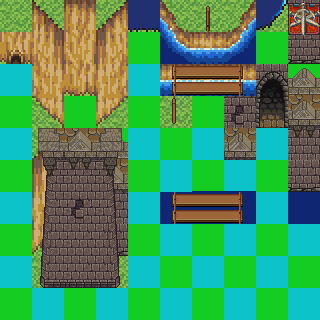
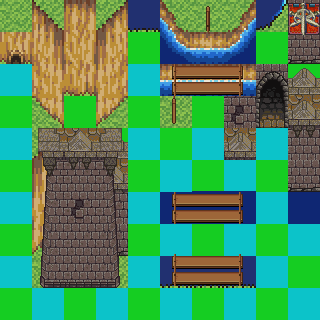
Permite cargar mapas predeterminados.

Changed region(s): [[0.5, 0.7812, 0.8125, 0.9062]]

diff --git a/src/mapa/MapaCargado.java b/src/mapa/MapaCargado.java
@@ -43,168 +43,179 @@ public class MapaCargado extends Mapa{
     protected void generarMapa() {
         for (int i = 0; i < pixeles.length; i++) {
             switch (pixeles[i]) { //evalua el color guardado en el array de pixeles
-                case 0x579641:
+                case 0xff579641:
                     cuadrosCatalogo[i] = Cuadro.TIERRA;
                     continue;
-                case 0x414b96:
+                case 0xff414b96:
                     cuadrosCatalogo[i] = Cuadro.AGUA;
                     continue;
-                case 0x9f8034:
+                case 0xff9f8034:
                     cuadrosCatalogo[i] = Cuadro.BANDERA_P1;
                     continue;
-                case 0x6d5314:
+                case 0xff6d5314:
                     cuadrosCatalogo[i] = Cuadro.BANDERA_P2;
                     continue;
-                case 0x8d6507:
+                case 0xff8d6507:
                     cuadrosCatalogo[i] = Cuadro.DETALLE_PARED1;
                     continue;
-                case 0x907d50:
+                case 0xff907d50:
                     cuadrosCatalogo[i] = Cuadro.ESPINO_INF_CON_DETALLE;
                     continue;
-                case 0xb08828:
+                case 0xffb08828:
                     cuadrosCatalogo[i] = Cuadro.ESPINO_INF_SIN_DETALLE;
                     continue;
-                case 0x615035:
+                case 0xff615035:
                     cuadrosCatalogo[i] = Cuadro.ESPINO_SUP;
                     continue;
-                case 0x6b604f:
+                case 0xff6b604f:
                     cuadrosCatalogo[i] = Cuadro.ESPINO_SUP_TORRE;
                     continue;
-                case 0x6c564d:
+                case 0xff6c564d:
                     cuadrosCatalogo[i] = Cuadro.ESPINO_SUP_TORRE_DETALLE;
                     continue;
-                case 0xa12d5e:
+                case 0xffa12d5e:
                     cuadrosCatalogo[i] = Cuadro.ESQUINA_INF_TORRE_DER;
                     continue;
-                case 0x620e31:
+                case 0xff620e31:
                     cuadrosCatalogo[i] = Cuadro.ESQUINA_INF_TORRE_IZ;
                     continue;
-                case 0x3f2424:
+                case 0xff3f2424:
                     cuadrosCatalogo[i] = Cuadro.ESQUINA_SUP_DER_TIERRA;
                     continue;
-                case 0x864040:
+                case 0xff864040:
                     cuadrosCatalogo[i] = Cuadro.ESQUINA_SUP_DER_TIERRA_INF;
                     continue;
-                case 0x462020:
+                case 0xff462020:
                     cuadrosCatalogo[i] = Cuadro.ESQUINA_SUP_DER_TIERRA_MED;
                     continue;
-                case 0x4f0f0f:
+                case 0xff4f0f0f:
                     cuadrosCatalogo[i] = Cuadro.ESQUINA_SUP_DER_TIERRA_MED2;
                     continue;
-                case 0x735845:
+                case 0xff735845:
                     cuadrosCatalogo[i] = Cuadro.ESQUINA_SUP_IZ_TIERRA;
                     continue;
-                case 0x9b7a43:
+                case 0xff9b7a43:
                     cuadrosCatalogo[i] = Cuadro.ESQUINA_SUP_IZ_TIERRA_INF;
                     continue;
-                case 0xa06d48:
+                case 0xffa06d48:
                     cuadrosCatalogo[i] = Cuadro.ESQUINA_SUP_IZ_TIERRA_MEDIO;
                     continue;
-                case 0xb4945f:
+                case 0xffb4945f:
                     cuadrosCatalogo[i] = Cuadro.ESQUINA_SUP_IZ_TIERRA_MEDIO2;
                     continue;
-                case 0x867f7f:
+                case 0xff867f7f:
                     cuadrosCatalogo[i] = Cuadro.ESQUINA_SUP_TORRE_DER;
                     continue;
-                case 0x807870:
+                case 0xff807870:
                     cuadrosCatalogo[i] = Cuadro.ESQUINA_SUP_TORRE_DER_MEDIO;
                     continue;
-                case 0x887a6c:
+                case 0xff887a6c:
                     cuadrosCatalogo[i] = Cuadro.ESQUINA_SUP_TORRE_DER_MEDIO2;
                     continue;
-                case 0x796551:
+                case 0xff796551:
                     cuadrosCatalogo[i] = Cuadro.ESQUINA_SUP_TORRE_DER_MEDIO3;
                     continue;
-                case 0x866c2e:
+                case 0xff866c2e:
                     cuadrosCatalogo[i] = Cuadro.ESQUINA_SUP_TORRE_IZ;
                     continue;
-                case 0x2b1f24:
+                case 0xff2b1f24:
                     cuadrosCatalogo[i] = Cuadro.ESQUINA_SUP_TORRE_IZ_MEDIO;
                     continue;
-                case 0x28121b:
+                case 0xff28121b:
                     cuadrosCatalogo[i] = Cuadro.ESQUINA_SUP_TORRE_IZ_MEDIO2;
                     continue;
-                case 0x330e1e:
+                case 0xff330e1e:
                     cuadrosCatalogo[i] = Cuadro.ESQUINA_SUP_TORRE_IZ_MEDIO3;
                     continue;
-                case 0x784b35:
+                case 0xff784b35:
                     cuadrosCatalogo[i] = Cuadro.HUECO_CUEVA;
                     continue;
-                case 0x6a3f2a:
+                case 0xff6a3f2a:
                     cuadrosCatalogo[i] = Cuadro.INF_MED_TIERRA;
                     continue;
-                case 0x821442:
+                case 0xff821442:
                     cuadrosCatalogo[i] = Cuadro.INF_TORRE;
                     continue;
-                case 0xbc8e36:
+                case 0xffbc8e36:
                     cuadrosCatalogo[i] = Cuadro.MED_MED_TIERRA;
                     continue;
-                case 0x836c33:
+                case 0xff836c33:
                     cuadrosCatalogo[i] = Cuadro.MURO_INF;
                     continue;
-                case 0xa04f28:
+                case 0xffa04f28:
                     cuadrosCatalogo[i] = Cuadro.ORILLA_ESQUINA_FRONTAL_INF_DER;
                     continue;
-                case 0xcc8d6e:
+                case 0xffcc8d6e:
                     cuadrosCatalogo[i] = Cuadro.ORILLA_ESQUINA_FRONTAL_INF_IZ;
                     continue;
-                case 0x86401e:
+                case 0xff86401e:
                     cuadrosCatalogo[i] = Cuadro.ORILLA_ESQUINA_FRONTAL_INF_MED;
                     continue;
-                case 0xdc6b34:
+                case 0xffdc6b34:
                     cuadrosCatalogo[i] = Cuadro.ORILLA_ESQUINA_FRONTAL_SUP_DER;
                     continue;
-                case 0xb0623b:
+                case 0xffb0623b:
                     cuadrosCatalogo[i] = Cuadro.ORILLA_ESQUINA_FRONTAL_SUP_IZ;
                     continue;
-                case 0x639e72:
+                case 0xff639e72:
                     cuadrosCatalogo[i] = Cuadro.ORILLA_POSTERIOR_CURV;
                     continue;
-                case 0x419657:
+                case 0xff419657:
                     cuadrosCatalogo[i] = Cuadro.ORILLA_POSTERIOR_RECT;
                     continue;
-                case 0x6a5420:
+                case 0xff6a5420:
                     cuadrosCatalogo[i] = Cuadro.PARED_CON_DETALLE;
                     continue;
-                case 0x3e3337:
+                case 0xff3e3337:
                     cuadrosCatalogo[i] = Cuadro.PARED_CON_DETALLE_SIN_BORDE;
                     continue;
-                case 0x281a1f:
+                case 0xff281a1f:
                     cuadrosCatalogo[i] = Cuadro.PARED_SIN_DETALLE;
                     continue;
-                case 0x1a5804:
+                case 0xff1a5804:
                     cuadrosCatalogo[i] = Cuadro.POSTE_FRONTAL;
                     continue;
-                case 0xd5845c:
+                case 0xffd5845c:
                     cuadrosCatalogo[i] = Cuadro.POSTE_POSTERIOR;
                     continue;
-                case 0xc3876a:
+                case 0xffc3876a:
                     cuadrosCatalogo[i] = Cuadro.PUENTE_AGUA_DER;
                     continue;
-                case 0x623520:
+                case 0xff623520:
                     cuadrosCatalogo[i] = Cuadro.PUENTE_AGUA_IZ;
                     continue;
-                case 0x925537:
+                case 0xff925537:
                     cuadrosCatalogo[i] = Cuadro.PUENTE_AGUA_MEDIO;
                     continue;
-                case 0xad5e38:
+                case 0xffad5e38:
                     cuadrosCatalogo[i] = Cuadro.PUENTE_ORILLA_DER;
                     continue;
-                case 0xae5c34:
+                case 0xffae5c34:
                     cuadrosCatalogo[i] = Cuadro.PUENTE_ORILLA_IZ;
                     continue;
-                case 0xd99b7c:
+                case 0xffd99b7c:
                     cuadrosCatalogo[i] = Cuadro.PUENTE_ORILLA_MED;
                     continue;
-                case 0x333a01:
+                case 0xff333a01:
                     cuadrosCatalogo[i] = Cuadro.PUERTA_ABAJO;
                     continue;
-                case 0x677313:
+                case 0xff677313:
                     cuadrosCatalogo[i] = Cuadro.PUERTA_ARRIBA;
                     continue;
-                case 0xd0ad73:
+                case 0xffd0ad73:
                     cuadrosCatalogo[i] = Cuadro.SUP_MED_TIERRA;
                     continue;
+                case 0xff925e45:
+                    cuadrosCatalogo[i] = Cuadro.PUENTE_POSTERIOR_IZ;
+                    continue;
+                case 0xff815d4b:
+                    cuadrosCatalogo[i] = Cuadro.PUENTE_POSTERIOR_MED;
+                    continue;
+                case 0xff4f2714:
+                    cuadrosCatalogo[i] = Cuadro.PUENTE_POSTERIOR_DER;
+                    continue;
+                default:
+                    cuadrosCatalogo[i] = Cuadro.VACIO;
             }
         }
     }

diff --git a/src/juego/Juego.java b/src/juego/Juego.java
@@ -15,6 +15,7 @@ import java.util.logging.Logger;
 import javax.swing.ImageIcon;
 import javax.swing.JFrame;
 import mapa.Mapa;
+import mapa.MapaCargado;
 import mapa.MapaGenerado;
 
 public class Juego extends Canvas implements Runnable{ //con el implements ponemos una interfaz para poder generar procesos seguidos.
@@ -54,7 +55,8 @@ public class Juego extends Canvas implements Runnable{ //con el implements ponem
         
         pantalla = new Pantalla(ANCHO,ALTO); //iniciamos la pantalla
         
-        mapa = new MapaGenerado(128,128);
+        //mapa = new MapaGenerado(128,128); //inicializa un mapa generado
+        mapa = new MapaCargado("/mapas/AfuerasCastillo.png");
         
         teclado = new Teclado();
         addKeyListener(teclado);

diff --git a/src/mapa/Mapa.java b/src/mapa/Mapa.java
@@ -30,6 +30,7 @@ public abstract class Mapa {
      */
     public Mapa(String ruta){
         cargarMapa(ruta);
+        generarMapa();
     }
     
     protected void cargarMapa(String ruta){     
@@ -57,7 +58,12 @@ public abstract class Mapa {
         
         for(int y = norte; y < sur; y++){
             for(int x = oeste; x < este; x++){
-                getCuadro(x,y).mostrar(x,y,pantalla);
+                //getCuadro(x,y).mostrar(x,y,pantalla); //Genera los mapas aleatorios
+                if(x<0 || y < 0 || x>=ancho || y>=alto){
+                    Cuadro.VACIO.mostrar(x, y, pantalla);
+                } else{
+                    cuadrosCatalogo[x+y*ancho].mostrar(x, y, pantalla);
+                }
             }
         }
         

diff --git a/src/mapa/cuadro/Cuadro.java b/src/mapa/cuadro/Cuadro.java
@@ -79,6 +79,9 @@ public class Cuadro {
     public static final Cuadro ESQUINA_INF_TORRE_IZ = new Cuadro(Sprite.ESQUINA_INF_TORRE_IZ);
     public static final Cuadro INF_TORRE = new Cuadro(Sprite.INF_TORRE);
     public static final Cuadro ESQUINA_INF_TORRE_DER = new Cuadro(Sprite.ESQUINA_INF_TORRE_DER);
+    public static final Cuadro PUENTE_POSTERIOR_IZ = new Cuadro(Sprite.PUENTE_POSTERIOR_IZ);
+    public static final Cuadro PUENTE_POSTERIOR_MED = new Cuadro(Sprite.PUENTE_POSTERIOR_MED);
+    public static final Cuadro PUENTE_POSTERIOR_DER = new Cuadro(Sprite.PUENTE_POSTERIOR_DER);
     //fin de la colección de cuadros.
     
     public Cuadro(Sprite sprite) {

diff --git a/src/graficos/Sprite.java b/src/graficos/Sprite.java
@@ -74,6 +74,9 @@ public final class Sprite {
     public static final Sprite ESQUINA_INF_TORRE_IZ = new Sprite(32,1,8,HojaSprites.tierra);
     public static final Sprite INF_TORRE = new Sprite(32,2,8,HojaSprites.tierra);
     public static final Sprite ESQUINA_INF_TORRE_DER = new Sprite(32,3,8,HojaSprites.tierra);
+    public static final Sprite PUENTE_POSTERIOR_IZ = new Sprite(32,5,8,HojaSprites.tierra);
+    public static final Sprite PUENTE_POSTERIOR_MED = new Sprite(32,6,8,HojaSprites.tierra);
+    public static final Sprite PUENTE_POSTERIOR_DER = new Sprite(32,7,8,HojaSprites.tierra);
     //fin de la colección
     
     /**
